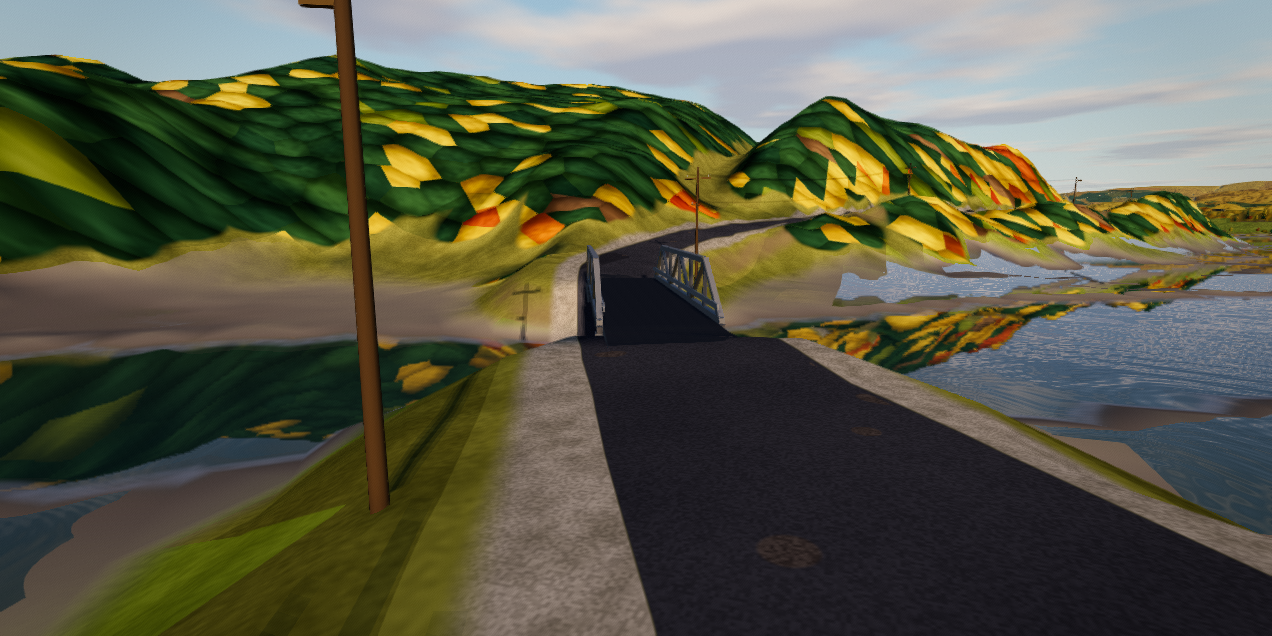
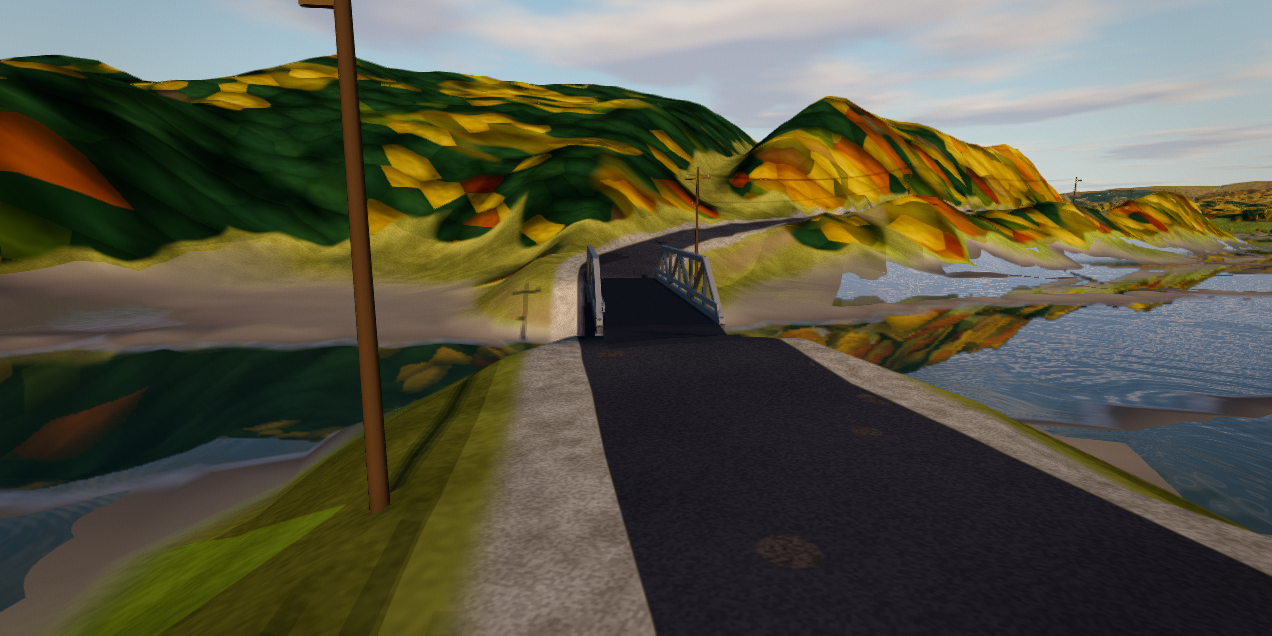
Meet selected road surface on aprons while preserving wheel support

diff --git a/web/src/november-bridges.ts b/web/src/november-bridges.ts
@@ -210,16 +210,79 @@ export function registerRailContacts(
   });
 }
 
+/** Build one 8x8 apron height grid, lifting interior vertices wherever sub-sampled terrain rises above a triangle. */
+function buildApronGrid(
+  a: readonly [number, number],
+  ux: number,
+  uz: number,
+  span: number,
+  end: -1 | 1,
+  endY: number,
+  sampleY: (x: number, z: number) => number | null,
+  pinOuter: boolean,
+  padMin: number,
+  padTarget: number,
+): Float64Array {
+  const ap = PONY_TRUSS.approach, clearHalf = PONY_TRUSS.clearHalf;
+  const heights = new Float64Array((APRON_ALONG_STEPS + 1) * APRON_COLS);
+  const joinRow = end < 0 ? APRON_ALONG_STEPS : 0;
+  const outerRow = end < 0 ? 0 : APRON_ALONG_STEPS;
+  for (let i = 0; i <= APRON_ALONG_STEPS; i++) {
+    const t = i / APRON_ALONG_STEPS;
+    const s = end < 0 ? -ap * (1 - t) : span + ap * t;
+    const distPast = end < 0 ? -s : s - span;
+    for (let j = 0; j <= APRON_ACROSS_STEPS; j++) {
+      const across = -clearHalf + (2 * clearHalf * j) / APRON_ACROSS_STEPS;
+      const wx = a[0] + ux * s - uz * across, wz = a[1] + uz * s + ux * across;
+      const h = sampleY(wx, wz);
+      heights[i * APRON_COLS + j] = i === joinRow ? endY : pinOuter && i === outerRow && h !== null ? h : apronSurfaceY(endY, distPast, h);
+    }
+  }
+  const subSteps = 8;
+  for (let pass = 0; pass < 2; pass++) {
+    for (let i = 0; i < APRON_ALONG_STEPS; i++) {
+      for (let j = 0; j < APRON_ACROSS_STEPS; j++) {
+        for (let si = 0; si <= subSteps; si++) {
+          const su = si / subSteps, uNorm = (i + su) / APRON_ALONG_STEPS;
+          const s = end < 0 ? -ap * (1 - uNorm) : span + ap * uNorm;
+          for (let sj = 0; sj <= subSteps; sj++) {
+            const sv = sj / subSteps, vNorm = (j + sv) / APRON_ACROSS_STEPS;
+            const across = -clearHalf + 2 * clearHalf * vNorm;
+            const land = sampleY(a[0] + ux * s - uz * across, a[1] + uz * s + ux * across);
+            if (land === null) continue;
+            const triY = sampleApronGrid(heights, uNorm, vNorm);
+            if (land + padMin <= triY) continue;
+            const excess = land + padTarget - triY;
+            const verts: [number, number, number][] = su + sv >= 1
+              ? [[i + 1, j + 1, su + sv - 1], [i, j + 1, 1 - su], [i + 1, j, 1 - sv]]
+              : [[i, j, 1 - su - sv], [i + 1, j, su], [i, j + 1, sv]];
+            let freeWeight = 0;
+            for (const [vi, , w] of verts) if (vi !== joinRow && (!pinOuter || vi !== outerRow)) freeWeight += w;
+            if (freeWeight > 0.01) {
+              const lift = excess / freeWeight;
+              for (const [vi, vj, w] of verts) {
+                if (vi !== joinRow && (!pinOuter || vi !== outerRow) && w > 0) heights[vi * APRON_COLS + vj] += lift;
+              }
+            }
+          }
+        }
+      }
+    }
+  }
+  return heights;
+}
+
 /**
  * Build one merged vertex-coloured geometry for a narrow one-lane grey steel pony-truss bridge and its 3 m approach aprons.
- * Returns the geometry, exact apron height grids, and bank-cleared end elevations shared with ponyTrussDeckHeight().
+ * Returns the geometry, wheel-support apron height grids, and bank-cleared end elevations shared with ponyTrussDeckHeight().
  */
 export function buildPonyTrussBridge(
   pts: readonly [number, number][],
   rawY0: number,
   rawY1: number,
   len: number,
-  heightAt: (x: number, z: number) => number | null,
+  supportHeightAt: (x: number, z: number) => number | null,
+  drawnHeightAt: (x: number, z: number) => number | null = supportHeightAt,
 ): { geometry: THREE.BufferGeometry; aprons: PonyTrussAprons; y0: number; y1: number } {
   const m = new Mesher();
   const a = pts[0], b = pts[pts.length - 1];
@@ -234,10 +297,14 @@ export function buildPonyTrussBridge(
   const seamSamples = APRON_ACROSS_STEPS * 2;
   for (let j = 0; j <= seamSamples; j++) {
     const across = -clearHalf + (2 * clearHalf * j) / seamSamples;
-    const h0 = heightAt(a[0] - uz * across, a[1] + ux * across);
-    if (h0 !== null && h0 + 0.02 > y0) y0 = h0 + 0.02;
-    const h1 = heightAt(b[0] - uz * across, b[1] + ux * across);
-    if (h1 !== null && h1 + 0.02 > y1) y1 = h1 + 0.02;
+    const h0 = supportHeightAt(a[0] - uz * across, a[1] + ux * across);
+    const d0 = drawnHeightAt(a[0] - uz * across, a[1] + ux * across);
+    const top0 = h0 !== null && d0 !== null ? Math.max(h0, d0) : h0 ?? d0;
+    if (top0 !== null && top0 + 0.02 > y0) y0 = top0 + 0.02;
+    const h1 = supportHeightAt(b[0] - uz * across, b[1] + ux * across);
+    const d1 = drawnHeightAt(b[0] - uz * across, b[1] + ux * across);
+    const top1 = h1 !== null && d1 !== null ? Math.max(h1, d1) : h1 ?? d1;
+    if (top1 !== null && top1 + 0.02 > y1) y1 = top1 + 0.02;
   }
   const dy = y1 - y0, slope = Math.atan2(dy, span);
   const deckY = (s: number) => y0 + dy * (s / span);
@@ -272,57 +339,16 @@ export function buildPonyTrussBridge(
   // Deck slab sides and underside (steel deck fascia under the trusses, 2.5 cm below asphalt to avoid z-fighting).
   m.box(0, fasciaTop - deckThick / 2, 0, fasciaLen, deckThick, half * 2 + chord, STEEL_DARK, false);
 
-  // Paved 3 m approach aprons whose triangles conform to and stay cleanly above the local bank across the full width.
+  // Paved 3 m approach aprons: visual mesh meets the selected rendered road at the outer edge while wheel support clears bilinear ground.
   const ap = PONY_TRUSS.approach;
-  const startGrid = new Float64Array((APRON_ALONG_STEPS + 1) * APRON_COLS);
-  const endGrid = new Float64Array((APRON_ALONG_STEPS + 1) * APRON_COLS);
+  const startGrid = buildApronGrid(a, ux, uz, span, -1, y0, supportHeightAt, false, 0.012, 0.018);
+  const endGrid = buildApronGrid(a, ux, uz, span, 1, y1, supportHeightAt, false, 0.012, 0.018);
+  const sameSurface = drawnHeightAt === supportHeightAt;
+  const startVis = sameSurface ? startGrid : buildApronGrid(a, ux, uz, span, -1, y0, drawnHeightAt, true, 0.005, 0.012);
+  const endVis = sameSurface ? endGrid : buildApronGrid(a, ux, uz, span, 1, y1, drawnHeightAt, true, 0.005, 0.012);
   m.at(0, 0, 0);
   for (const end of [-1, 1] as const) {
-    const endY = end < 0 ? y0 : y1;
-    const heights = end < 0 ? startGrid : endGrid;
-    const joinRow = end < 0 ? APRON_ALONG_STEPS : 0;
-    for (let i = 0; i <= APRON_ALONG_STEPS; i++) {
-      const t = i / APRON_ALONG_STEPS;
-      const s = end < 0 ? -ap * (1 - t) : span + ap * t;
-      const distPast = end < 0 ? -s : s - span;
-      for (let j = 0; j <= APRON_ACROSS_STEPS; j++) {
-        const across = -clearHalf + (2 * clearHalf * j) / APRON_ACROSS_STEPS;
-        const wx = a[0] + ux * s - uz * across, wz = a[1] + uz * s + ux * across;
-        heights[i * APRON_COLS + j] = i === joinRow ? endY : apronSurfaceY(endY, distPast, heightAt(wx, wz));
-      }
-    }
-    // Lift non-join vertices wherever a bank ridge pokes above an apron triangle between grid corners.
-    const subSteps = 4;
-    for (let pass = 0; pass < 2; pass++) {
-      for (let i = 0; i < APRON_ALONG_STEPS; i++) {
-        for (let j = 0; j < APRON_ACROSS_STEPS; j++) {
-          for (let si = 0; si <= subSteps; si++) {
-            const su = si / subSteps, uNorm = (i + su) / APRON_ALONG_STEPS;
-            const s = end < 0 ? -ap * (1 - uNorm) : span + ap * uNorm;
-            for (let sj = 0; sj <= subSteps; sj++) {
-              const sv = sj / subSteps, vNorm = (j + sv) / APRON_ACROSS_STEPS;
-              const across = -clearHalf + 2 * clearHalf * vNorm;
-              const land = heightAt(a[0] + ux * s - uz * across, a[1] + uz * s + ux * across);
-              if (land === null) continue;
-              const triY = sampleApronGrid(heights, uNorm, vNorm);
-              if (land + 0.005 <= triY) continue;
-              const excess = land + 0.012 - triY;
-              const verts: [number, number, number][] = su + sv >= 1
-                ? [[i + 1, j + 1, su + sv - 1], [i, j + 1, 1 - su], [i + 1, j, 1 - sv]]
-                : [[i, j, 1 - su - sv], [i + 1, j, su], [i, j + 1, sv]];
-              let freeWeight = 0;
-              for (const [vi, , w] of verts) if (vi !== joinRow) freeWeight += w;
-              if (freeWeight > 0.01) {
-                const lift = excess / freeWeight;
-                for (const [vi, vj, w] of verts) {
-                  if (vi !== joinRow && w > 0) heights[vi * APRON_COLS + vj] += lift;
-                }
-              }
-            }
-          }
-        }
-      }
-    }
+    const visHeights = end < 0 ? startVis : endVis;
     const grid: [number, number, number][][] = [];
     for (let i = 0; i <= APRON_ALONG_STEPS; i++) {
       const t = i / APRON_ALONG_STEPS;
@@ -330,7 +356,7 @@ export function buildPonyTrussBridge(
       const row: [number, number, number][] = [];
       for (let j = 0; j <= APRON_ACROSS_STEPS; j++) {
         const across = -clearHalf + (2 * clearHalf * j) / APRON_ACROSS_STEPS;
-        row.push([a[0] + ux * s - uz * across, heights[i * APRON_COLS + j], a[1] + uz * s + ux * across]);
+        row.push([a[0] + ux * s - uz * across, visHeights[i * APRON_COLS + j], a[1] + uz * s + ux * across]);
       }
       grid.push(row);
     }
@@ -342,7 +368,7 @@ export function buildPonyTrussBridge(
       // Side skirts drop cleanly down into the bank beneath the outer apron edges.
       for (const side of [0, APRON_ACROSS_STEPS]) {
         const p0 = grid[i][side], p1 = grid[i + 1][side];
-        const b0 = [p0[0], p0[1] - 1.5, p0[2]], b1 = [p1[0], p1[1] - 1.5, p1[2]];
+        const b0 = [p0[0], p0[1] - 2.5, p0[2]], b1 = [p1[0], p1[1] - 2.5, p1[2]];
         if (side === APRON_ACROSS_STEPS) m.quad([b0, b1, p1, p0], ABUTMENT);
         else m.quad([b1, b0, p0, p1], ABUTMENT);
       }

diff --git a/web/src/roads.ts b/web/src/roads.ts
@@ -24,7 +24,7 @@ export interface RoadHit { road: Road; dist: number; x: number; z: number; headi
 const CELL = 64;
 const bridgeRoad = (road: Road) => road.bridge && !road.ponyTruss;
 
-interface Deck { road: Road; y0: number; y1: number; len: number; cum: number[]; mesh: THREE.Mesh; level: number; revision?: number; bankSig?: number; aprons?: PonyTrussAprons }
+interface Deck { road: Road; y0: number; y1: number; len: number; cum: number[]; mesh: THREE.Mesh; level: number; revision?: number; bankSig?: number; drawnSig?: number; aprons?: PonyTrussAprons }
 
 /** The road network: name lookup, a place to put the car back, and bridge decks (the LiDAR ground has no bridges). */
 const NO_SEGMENTS: [number, number][] = [];   // one shared empty bucket: a query over empty cells makes no arrays
@@ -58,14 +58,22 @@ export class Roads {
   private updateRevision=-1;private updateX=Infinity;private updateZ=Infinity;
   private periodMat: THREE.MeshLambertMaterial | null = null;
 
-  // Explicit, caller-independent terrain height: clears both drawn mesh triangles and bilinear wheel support.
+  // Explicit, caller-independent terrain samplers: wheel support clears both drawn triangles and bilinear ground; visual apron meets selected triangles.
   private readonly readTerrainHeight = (x: number, z: number): number | null => {
     const mesh = this.terrain.meshHeightAt?.(x, z, false) ?? null;
+    const drawn = this.terrain.meshHeightAt?.(x, z, true) ?? null;
     const surf = this.terrain.surfaceAt(x, z)?.ground ?? null;
-    if (mesh !== null && surf !== null) return Math.max(mesh, surf);
-    return mesh ?? surf ?? this.terrain.heightAt(x, z);
+    let best = -Infinity;
+    if (mesh !== null && mesh > best) best = mesh;
+    if (drawn !== null && drawn > best) best = drawn;
+    if (surf !== null && surf > best) best = surf;
+    return best > -Infinity ? best : this.terrain.heightAt(x, z);
   };
+  private readonly readDrawnHeight = (x: number, z: number): number | null =>
+    this.terrain.meshHeightAt?.(x, z, true) ?? this.readTerrainHeight(x, z);
   private readonly readSurfaceLevel = (x: number, z: number): number => this.terrain.surfaceAt(x, z)?.level ?? 0;
+  private readonly readDrawnLevel = (x: number, z: number): number =>
+    this.terrain.drawnLevelAt?.(x, z) ?? this.terrain.surfaceAt(x, z)?.level ?? 0;
 
   private eraBridgeHit:RoadHit|null=null;private bridgeQuery=0;
 
@@ -233,16 +241,19 @@ export class Roads {
       return;
     }
     for (const r of this.roads) {
-      if (!r.bridge || (this.decks.get(r.id)?.level ?? 0) >= 8) continue;
+      if (!r.bridge) continue;
+      const have = this.decks.get(r.id);
+      if (!r.ponyTruss && (have?.level ?? 0) >= 8) continue;
       const [x, z] = r.pts[0];
-      if (Math.hypot(x - cam.x, z - cam.z) < 1500) this.deck(r);
+      if (Math.hypot(x - cam.x, z - cam.z) < 1500) this.deck(r, !!r.ponyTruss);
     }
   }
 
-  private deck(road: Road): Deck | null {
+  private deck(road: Road, checkDrawn = false): Deck | null {
     if(this.terrain.cartRoads)return this.eraDeck(road);
     const have = this.decks.get(road.id), rev = this.terrain.dataRevision;
-    if (have && (have.level >= 8 || (rev !== undefined && have.revision === rev))) return have;
+    const pendingDrawn = have?.drawnSig !== undefined && have.drawnSig !== have.bankSig;
+    if (have && !checkDrawn && !pendingDrawn && (have.level >= 8 || (rev !== undefined && have.revision === rev))) return have;
     const p = road.pts, n = p.length;
     // The banks: a few metres past each end of the bridge, along its line.
     const end = (a: [number, number], b: [number, number]) => {
@@ -253,9 +264,10 @@ export class Roads {
     // Level 6 (4 m) is the finest ground some bridges ever get; finer data, when it comes, rebuilds the deck.
     if (!s0 || !s1 || s0.level < 6 || s1.level < 6) return have ?? null;
     const bank = road.ponyTruss ? ponyTrussBankState(road, this.readSurfaceLevel) : null;
-    const level = bank ? Math.min(s0.level, s1.level, bank.minLevel) : Math.min(s0.level, s1.level);
+    const drawn = road.ponyTruss ? ponyTrussBankState(road, this.readDrawnLevel) : null;
+    const level = bank ? Math.min(s0.level, s1.level, bank.minLevel, drawn!.minLevel) : Math.min(s0.level, s1.level);
     if (have) {
-      const upgraded = bank ? (bank.sig !== have.bankSig || level > have.level) : level > have.level;
+      const upgraded = bank ? (bank.sig !== have.bankSig || drawn!.sig !== have.drawnSig || level > have.level) : level > have.level;
       if (!upgraded) { have.revision = rev; return have; }
       this.group.remove(have.mesh);
       have.mesh.geometry.dispose();
@@ -267,7 +279,7 @@ export class Roads {
     let mesh: THREE.Mesh;
     let aprons: PonyTrussAprons | undefined;
     if (road.ponyTruss) {
-      const built = buildPonyTrussBridge(p, y0, y1, len, this.readTerrainHeight);
+      const built = buildPonyTrussBridge(p, y0, y1, len, this.readTerrainHeight, typeof this.terrain.meshHeightAt === 'function' ? this.readDrawnHeight : this.readTerrainHeight);
       y0 = built.y0; y1 = built.y1;
       aprons = built.aprons;
       this.periodMat ??= new THREE.MeshLambertMaterial({ vertexColors: true, side: THREE.DoubleSide });
@@ -300,7 +312,7 @@ export class Roads {
       mesh = new THREE.Mesh(geo, road.kind >= 4 ? this.timberMat : this.deckMat);
     }
     this.group.add(mesh);
-    const deck: Deck = { road, y0, y1, len, cum, mesh, level, revision: rev, bankSig: bank?.sig, aprons };
+    const deck: Deck = { road, y0, y1, len, cum, mesh, level, revision: rev, bankSig: bank?.sig, drawnSig: drawn?.sig, aprons };
     this.decks.set(road.id, deck);
     return deck;
   }
